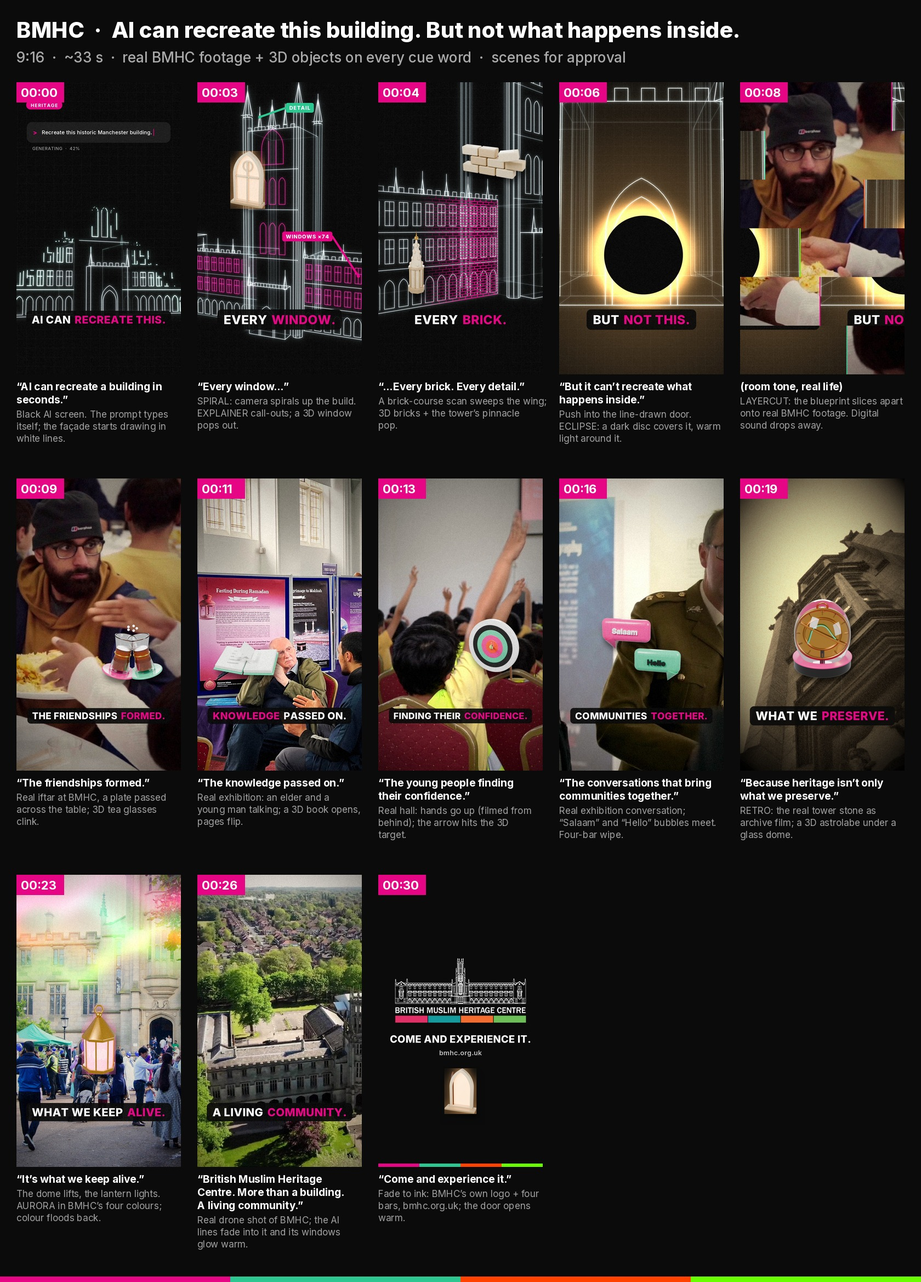
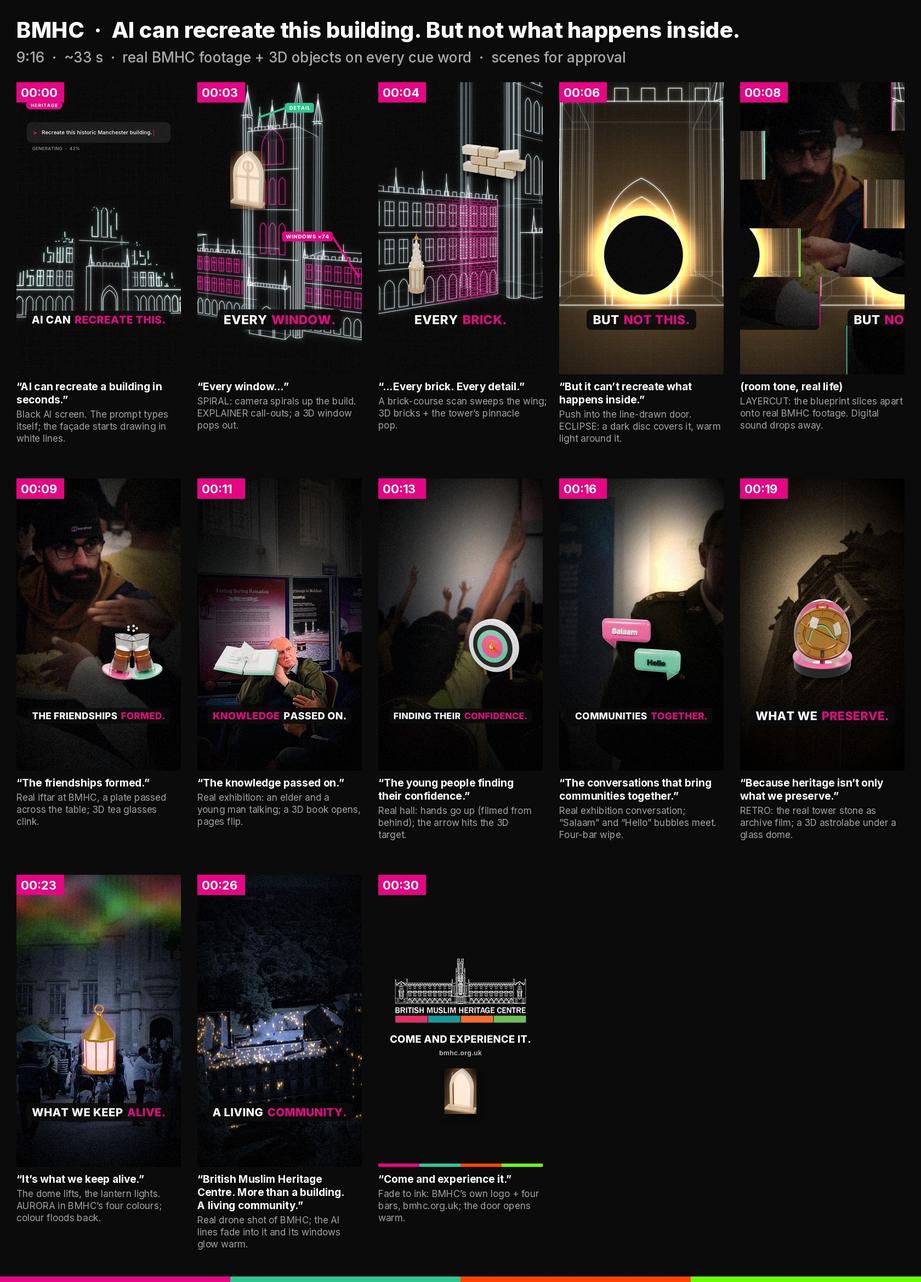
BMHC AI reel: deeper, darker low-key film grade for the scenes
Claude-Session: https://claude.ai/code/session_01MoBxzrbvJiqsBfWrfwy6zG

Changed region(s): [[0.0, 0.3745, 0.9905, 0.6242], [0.0, 0.6554, 0.4024, 0.9363], [0.8048, 0.0624, 0.9905, 0.3121]]

diff --git a/pipeline_ai/frames_ai.py b/pipeline_ai/frames_ai.py
@@ -446,3 +446,66 @@ def logo(width=820):
     big = cv2.resize(out, (width, int(out.shape[0] * sc)), interpolation=cv2.INTER_CUBIC)
     bl = cv2.GaussianBlur(big, (0, 0), 1.0)
     return np.clip(big * 1.5 - bl * 0.5, 0, 1)
+
+
+# ------------------------------------------------------------------ the deep, dark film look
+def deep(c, exp=0.62, warm=0.5, night=0.0, hal=0.5, vig=0.85, seed=0, haze=0.0, t=0.0, pool=(0.5, 0.45, 0.55), pool_amt=0.75):
+    """Low-key cinematic grade: lower exposure, filmic S-curve with crushed blacks, cool shadows and warm highlights,
+    halation on the highlights, heavy vignette, optional day-for-night (night 0..1) and a light shaft with dust (haze)."""
+    c = np.clip(c, 0, 1) * exp
+    if pool is not None:                                  # one pool of light on the subject, the rest falls into shadow
+        yy, xx = np.mgrid[0:H, 0:W].astype(np.float32)
+        r = np.hypot((xx - pool[0] * W) / (W * pool[2]), (yy - pool[1] * H) / (H * pool[2] * 0.75))
+        light = np.exp(-r ** 2 * 1.6)
+        c = c * ((1 - pool_amt) + pool_amt * (0.25 + 1.25 * light))[..., None]
+    lum = c.mean(-1, keepdims=True)
+    if night:
+        blue = np.concatenate([lum * 0.55, lum * 0.72, lum * 1.05], -1) * 0.75
+        c = c * (1 - night) + blue * night
+        lum = c.mean(-1, keepdims=True)
+    c = lum + (c - lum) * (0.82 - 0.2 * night)
+    x = np.clip(c, 0, 1)
+    c = np.clip(np.clip(x - 0.035, 0, 1) ** 1.35 * (1.0 + 0.6 * x) / 1.6 * 1.55, 0, 1)        # S-curve, true blacks
+    sh = np.clip(1 - lum * 2.2, 0, 1)
+    hi_ = np.clip(lum * 2.0 - 0.6, 0, 1)
+    c = c + sh * np.array((-0.006, 0.006, 0.018), np.float32) + hi_ * np.array((0.05, 0.022, -0.03), np.float32) * warm
+    if hal:
+        br = np.clip(c - 0.5, 0, 1)
+        g = cv2.GaussianBlur(br, (0, 0), 22) * np.array((1.0, 0.55, 0.35), np.float32)
+        c = c + g * hal
+    if haze:
+        yy, xx = np.mgrid[0:H, 0:W].astype(np.float32)
+        d = np.abs((xx - W * 0.78) * 0.94 + (yy - 0) * 0.34) / (W * 0.18)
+        beam = np.exp(-d ** 2) * np.clip(1 - yy / (H * 1.1), 0, 1)
+        c = c + beam[..., None] * np.array((1.0, 0.78, 0.55), np.float32) * 0.09 * haze
+        rng = np.random.default_rng(seed)
+        lay = np.zeros((H, W), np.float32)
+        for _ in range(110):
+            px = rng.uniform(0, W)
+            py = (rng.uniform(0, H) - t * rng.uniform(8, 25)) % H
+            cv2.circle(lay, (int(px), int(py)), int(rng.uniform(1, 3)), float(rng.uniform(0.3, 1.0)), -1, cv2.LINE_AA)
+        lay = cv2.GaussianBlur(lay, (0, 0), 1.2)
+        bx = np.exp(-((xx - W * 0.78) * 0.94 + yy * 0.34) ** 2 / (W * 0.3) ** 2)
+        c = c + (lay * (0.25 + bx))[..., None] * np.array((1.0, 0.85, 0.65), np.float32) * 0.35 * haze
+    c = c * (vignette(vig)[..., None] * 0.92 + 0.08 * 0)
+    return grain(np.clip(c, 0, 1), 0.022, seed)
+
+
+def window_lights(c, src, t=0.0, seed=0, amt=1.0, y0=0.45):
+    """Warm lit windows on the (real) building in a day-for-night drone shot: small glows where the stone façade is
+    (low-saturation, mid-bright pixels below y0), twinkling on over time."""
+    rng = np.random.default_rng(seed)
+    hsv = cv2.cvtColor((np.clip(src, 0, 1) * 255).astype(np.uint8), cv2.COLOR_RGB2HSV)
+    m = ((hsv[..., 1] < 45) & (hsv[..., 2] > 90) & (hsv[..., 2] < 215)).astype(np.uint8)
+    m[:int(H * y0)] = 0
+    m = cv2.morphologyEx(m, cv2.MORPH_OPEN, np.ones((5, 5), np.uint8))
+    ys, xs = np.nonzero(m)
+    lay = np.zeros((H, W), np.float32)
+    if len(xs):
+        idx = rng.choice(len(xs), min(260, len(xs)), replace=False)
+        for i in idx:
+            on = clamp((t - rng.uniform(0, 1.2)) / 0.25)
+            if on > 0:
+                cv2.rectangle(lay, (int(xs[i]) - 3, int(ys[i]) - 5), (int(xs[i]) + 3, int(ys[i]) + 5), float(on * rng.uniform(0.5, 1)), -1)
+    g = cv2.GaussianBlur(lay, (0, 0), 2) + cv2.GaussianBlur(lay, (0, 0), 14) * 1.5
+    return np.clip(c + g[..., None] * np.array((1.0, 0.68, 0.32), np.float32) * amt, 0, 1)

diff --git a/pipeline_ai/storyboard_ai.py b/pipeline_ai/storyboard_ai.py
@@ -86,50 +86,51 @@ save(4, grain(c, 0.02))
 
 # 05 - layercut opening onto real life (iftar)
 a = c.copy()
-b = grade(cover(load(f'{ST}/v_17.3.jpg'), fx=0.6, fy=0.45, z=1.15), warm=0.6, contrast=1.06, sat=1.05, vig=0.45)
+b = G.deep(cover(load(f'{ST}/v_17.3.jpg'), fx=0.6, fy=0.45, z=1.15), haze=1.0, pool=(0.55, 0.42, 0.5))
 c = layercut(a, b, 0.55)
 save(5, grain(c, 0.025))
 
 # 06 - the friendships formed (iftar + chai)
-c = grade(cover(load(f'{ST}/v_18.3.jpg'), fx=0.6, fy=0.45, z=1.15), warm=0.6, contrast=1.06, sat=1.05, vig=0.45)
+c = G.deep(cover(load(f'{ST}/v_18.3.jpg'), fx=0.6, fy=0.45, z=1.15), exp=0.68, haze=1.0, pool=(0.4, 0.3, 0.55))
 pop(c, 'chai', 760, 1140, 400, 1.2)
 caption(c, [('The friendships', WHITE), ('formed.', MAG)], 1560)
 save(6, grain(c, 0.025))
 
 # 07 - the knowledge passed on (exhibition conversation + book)
-c = grade(cover(load(f'{DL}/487090267_1088144326686714_8941517225088640181_n.jpg'), fx=0.42, fy=0.55, z=1.1), warm=0.4, contrast=1.05, vig=0.45)
+c = G.deep(cover(load(f'{DL}/487090267_1088144326686714_8941517225088640181_n.jpg'), fx=0.42, fy=0.55, z=1.1), exp=0.6, haze=1.0, seed=2, pool=(0.55, 0.62, 0.5))
 pop(c, 'book', 320, 1180, 430, 1.2)
 caption(c, [('Knowledge', MAG), ('passed on.', WHITE)], 1560)
 save(7, grain(c, 0.025))
 
 # 08 - young people finding their confidence (hands up + target)
-c = grade(cover(load(f'{ST}/v_12.5.jpg'), fx=0.45, fy=0.4, z=1.05), warm=0.4, contrast=1.08, vig=0.45)
+c = G.deep(cover(load(f'{ST}/v_12.5.jpg'), fx=0.45, fy=0.4, z=1.05), exp=0.62, haze=1.4, seed=3, pool=(0.62, 0.3, 0.55))
 pop(c, 'target', 760, 1120, 400, 1.2)
 caption(c, [('Finding their', WHITE), ('confidence.', MAG)], 1560)
 save(8, grain(c, 0.025))
 
 # 09 - conversations that bring communities together (bubbles)
-c = grade(cover(load(f'{ST}/v_28.5.jpg'), fx=0.33, fy=0.45, z=1.05), warm=0.4, contrast=1.05, vig=0.45)
+c = G.deep(cover(load(f'{ST}/v_28.5.jpg'), fx=0.33, fy=0.45, z=1.05), exp=0.65, haze=1.0, seed=4, pool=(0.72, 0.32, 0.5))
 pop(c, 'bubbles', 540, 1120, 520, 1.2)
 caption(c, [('Communities', WHITE), ('together.', MAG)], 1560)
 save(9, grain(c, 0.025))
 
 # 10 - what we preserve (retro tower + astrolabe)
-c = grade(cover(load(f'{ST}/v_14.5.jpg'), fx=0.55, fy=0.5, z=1.1), contrast=1.1, vig=0.2)
+c = G.deep(cover(load(f'{ST}/v_14.5.jpg'), fx=0.55, fy=0.5, z=1.1), exp=0.55, hal=0.2)
 c = retro(c, 1.3)
 pop(c, 'astrolabe', 540, 1050, 520, 1.2, shadow=True)
 caption(c, [('What we', WHITE), ('preserve.', MAG)], 1560)
 save(10, c)
 
 # 11 - what we keep alive (colour + aurora + lantern)
-c = grade(cover(load(f'{DL}/476280551_1049256607242153_4186426492440189340_n.jpg'), fx=0.5, fy=0.5, z=1.1), warm=0.5, contrast=1.05, vig=0.4, exp=0.9)
-c = aurora(c, 2.0, 0.9, 0.08, 0.3)
+c = G.deep(cover(load(f'{DL}/476280551_1049256607242153_4186426492440189340_n.jpg'), fx=0.5, fy=0.5, z=1.1), exp=0.7, night=0.6, pool=(0.5, 0.6, 0.55))
+c = aurora(c, 2.0, 0.28, 0.04, 0.16)
 pop(c, 'lantern', 540, 1080, 460, 1.2, glow=np.array((1, 0.45, 0.7), np.float32))
 caption(c, [('What we keep', WHITE), ('alive.', MAG)], 1560)
 save(11, grain(c, 0.025))
 
 # 12 - a living community (aerial + the AI lines dissolving into lit windows)
-c = grade(cover(load(f'{ST}/v_37.5.jpg'), fx=0.42, fy=0.6, z=1.0), warm=0.3, contrast=1.06, vig=0.4)
+_src = cover(load(f'{ST}/v_37.5.jpg'), fx=0.42, fy=0.6, z=1.0)
+c = G.window_lights(G.deep(_src, exp=0.85, night=0.85, hal=0.8, pool=(0.45, 0.62, 0.6)), _src, t=2.0)
 cam = BL.Cam((-6, -95, 55), (0, 0, 2), fov=34)
 pass
 caption(c, [('A living', WHITE), ('community.', MAG)], 1560)
